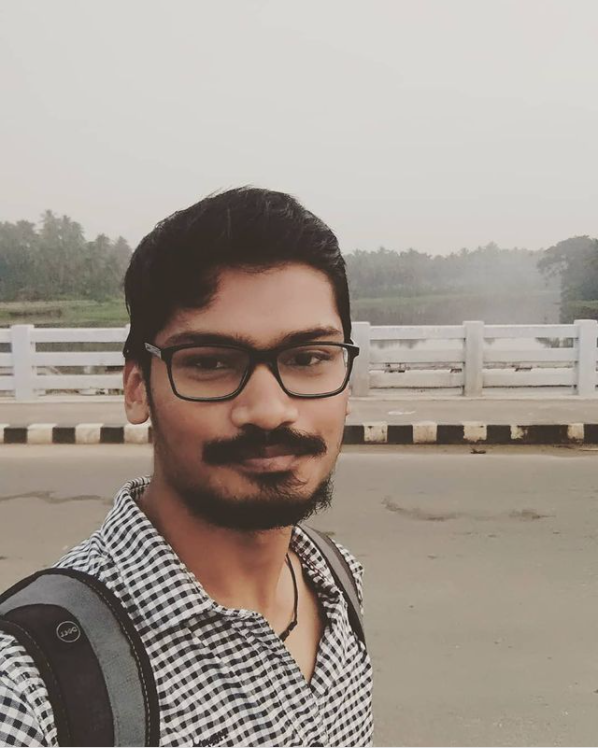
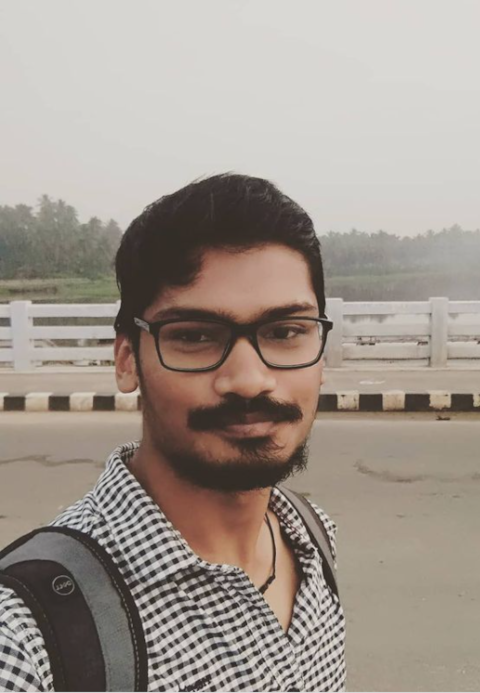
[+] Smaller photos [fix] ratio stretching

diff --git a/css/style.css b/css/style.css
@@ -1,1 +1,1 @@
-:root{scroll-behavior:smooth;--color-bg: #fff;--text-color-white: #fcfcfc;--dev-color: #f2f2f2;--text-color: #0f0f0f;--action-color: #fe7624;--action-color-2: #205eff;--action-color-3: #5d21d1}::-webkit-scrollbar{width:10px;height:10px}::-webkit-scrollbar-track{background:var(--color-bg)}::-webkit-scrollbar-thumb{background:var(--text-color)}body{margin:0;background-color:var(--color-bg);font-size:clamp(12px, 1vw, 18px)}a{color:inherit;text-decoration:none;font-family:"Montserrat",sans-serif;font-weight:600;font-size:1.4em}h1{padding:10px;font-family:"Montserrat",sans-serif;font-weight:800;font-size:4em}h2{padding:10px;font-family:"Montserrat",sans-serif;font-weight:700;font-size:3em}h2 .small{font-family:"Montserrat",sans-serif;font-weight:700;font-size:2.5em}h3{padding:10px;text-transform:uppercase;font-family:"Poppins",sans-serif;font-weight:600;font-size:1.6em}p{padding:10px;font-family:"Poppins",sans-serif;font-weight:500;font-size:1.4em}p.number_circle{padding:10px;font-family:"Righteous",fantasy;font-weight:400;font-size:5.8em}.header{top:0;width:100%;z-index:2;position:fixed;display:flex;justify-content:space-between;align-items:center;box-shadow:0 1px 10px 0 #000;backdrop-filter:blur(15px)}.header--container{margin:0 auto;width:clamp(280px, 80%, 1240px);display:flex;justify-content:space-between;align-items:center;gap:10px}a.logo{display:flex;align-items:center;font-family:"Righteous",sans-serif;font-weight:400;font-size:1.8em;padding:10px 0;gap:10px}a.logo img{width:clamp(48px, 4.5vw, 100px)}.nav{display:none}#hamburger{width:40px}.main{display:grid;margin:120px auto;width:clamp(320px, 80%, 1240px);gap:100px}.landing{flex-direction:column;display:flex;gap:20px}.landing .right{display:flex;align-items:center;justify-content:center;margin:auto 0}.landing .right img{width:clamp(240px, 40vw, 628px)}.about_us{text-align:center}.about_us .illustrations{display:flex;justify-content:space-around;width:100%}.about_us .illustrations img{width:clamp(100px, 20vw, 300px)}.perks{text-align:center}.perks .details{padding:0}.perks .card:nth-child(1) p:before{background:var(--action-color);transform:translate(-47%, -50%)}.perks .card:nth-child(1) p:after{color:var(--action-color-3);transform:translate(-53%, -50%)}.perks .card:nth-child(2) p:before{background:var(--text-color);transform:translate(-53%, -53%)}.perks .card:nth-child(2) p:after{color:var(--action-color);transform:translate(-47%, -47%)}.perks .card:nth-child(3) p:before{background:var(--action-color-2);transform:translate(-53%, -47%)}.perks .card:nth-child(3) p:after{color:var(--text-color);transform:translate(-47%, -53%)}.perks .card:nth-child(4) p:before{background:var(--text-color);transform:translate(-47%, -47%)}.perks .card:nth-child(4) p:after{color:var(--action-color);transform:translate(-53%, -53%)}.perks .card:nth-child(5) p:before{background:var(--action-color);transform:translate(-53%, -47%)}.perks .card:nth-child(5) p:after{color:var(--action-color-3);transform:translate(-50%, -53%)}.perks .card:nth-child(6) p:before{background:var(--action-color-2);transform:translate(-56%, -47%)}.perks .card:nth-child(6) p:after{color:var(--action-color-3);transform:translate(-53%, -53%)}.perks .card:nth-child(7) p:before{background:var(--action-color);transform:translate(-47%, -53%)}.perks .card:nth-child(7) p:after{color:var(--action-color-3);transform:translate(-53%, -47%)}.perks p.number_circle{padding:0;font-weight:800;color:var(--text-color-white);position:relative;width:100%}.perks p.number_circle:before,.perks p.number_circle:after{content:"";position:absolute;left:50%;top:50%;transform:translate(-50%, -50%);z-index:-1;border-radius:50%;width:90%;min-width:160px;max-width:240px;aspect-ratio:1/1}.perks p.number_circle:after{border:5px solid}.supply_chain h2{text-align:center}.supply_chain .step{width:60%}.contact-us{text-align:center}.contact-us .contact{display:flex;flex-direction:column;gap:20px}.contact-us .contact img{width:clamp(240px, 40vw, 484px)}.contact-us .contact .left{display:grid;place-items:center}.contact-us .contact .right{display:flex;justify-content:center;align-items:center}.contact-us form{padding:20px;display:flex;max-width:620px;flex-direction:column;grid-gap:20px}.contact-us form .form-identity{display:flex;grid-gap:26px}.contact-us form .form-identity input#name{width:33%}.contact-us form .form-identity input#mail{width:66%}.contact-us input,.contact-us textarea{font-size:1em;padding:10px 20px;border:3px solid var(--text-color);transition:box-shadow .5s;border-radius:12px;box-shadow:none}.contact-us input::placeholder,.contact-us textarea::placeholder{font-weight:bold;font-size:1em;opacity:.25}.contact-us input[type=submit],.contact-us textarea[type=submit]{min-width:25%;width:max-content;border:3px solid transparent;font-family:"Poppins",sans-serif;background-color:var(--action-color);box-shadow:5px 5px 0 0 var(--text-color);padding:10px 40px}.contact-us input:focus,.contact-us input:focus-within,.contact-us textarea:focus,.contact-us textarea:focus-within{outline:0;box-shadow:5px 5px 0 0 var(--action-color)}.contact-us textarea{height:150px;resize:none}footer{background-color:var(--dev-color)}footer .container{padding:40px 0;margin:0 auto;width:clamp(320px, 80%, 1240px)}footer .list-wrapper{display:grid;place-items:center;overflow-x:scroll;width:100%}footer .list{display:flex;max-width:content-box}footer .dev{display:grid;place-items:center;margin:0 20px}footer .dev img{width:224px;height:327px;overflow:hidden}footer .dev-name{width:calc(100% - 20px);text-align:center;padding:10px;margin:20px;font-size:1.11em}footer img,footer p{border-radius:32px;border:4px solid var(--text-color)}.perks-wrapper{display:flex;flex-direction:row;flex-flow:row wrap;justify-content:center}.perks-wrapper .card{padding:20px;display:flex;flex-direction:column;align-items:center;width:clamp(30%, 300px, 40%)}@media(min-width: 920px){#hamburger{display:none}.nav{display:flex}.nav .nav--link{padding:10px 20px}.landing{flex-direction:row}.contact-us .contact{flex-direction:row}.card{transition:all 1s ease-in-out}.supply_chain h2{text-align:left}}/*# sourceMappingURL=style.css.map */
+:root{scroll-behavior:smooth;--color-bg: #fff;--text-color-white: #fcfcfc;--dev-color: #f2f2f2;--text-color: #0f0f0f;--action-color: #fe7624;--action-color-2: #205eff;--action-color-3: #5d21d1}::-webkit-scrollbar{width:10px;height:10px}::-webkit-scrollbar-track{background:var(--color-bg)}::-webkit-scrollbar-thumb{background:var(--text-color)}body{margin:0;background-color:var(--color-bg);font-size:clamp(12px, 1vw, 18px)}a{color:inherit;text-decoration:none;font-family:"Montserrat",sans-serif;font-weight:600;font-size:1.4em}h1{padding:10px;font-family:"Montserrat",sans-serif;font-weight:800;font-size:4em}h2{padding:10px;font-family:"Montserrat",sans-serif;font-weight:700;font-size:3em}h2 .small{font-family:"Montserrat",sans-serif;font-weight:700;font-size:2.5em}h3{padding:10px;text-transform:uppercase;font-family:"Poppins",sans-serif;font-weight:600;font-size:1.6em}p{padding:10px;font-family:"Poppins",sans-serif;font-weight:500;font-size:1.4em}p.number_circle{padding:10px;font-family:"Righteous",fantasy;font-weight:400;font-size:5.8em}.header{top:0;width:100%;z-index:2;position:fixed;display:flex;justify-content:space-between;align-items:center;box-shadow:0 1px 10px 0 #000;backdrop-filter:blur(15px)}.header--container{margin:0 auto;width:clamp(280px, 80%, 1240px);display:flex;justify-content:space-between;align-items:center;gap:10px}a.logo{display:flex;align-items:center;font-family:"Righteous",sans-serif;font-weight:400;font-size:1.8em;padding:10px 0;gap:10px}a.logo img{width:clamp(48px, 4.5vw, 100px)}.nav{display:none}#hamburger{width:40px}.main{display:grid;margin:120px auto;width:clamp(320px, 80%, 1240px);gap:100px}.landing{flex-direction:column;display:flex;gap:20px}.landing .right{display:flex;align-items:center;justify-content:center;margin:auto 0}.landing .right img{width:clamp(240px, 40vw, 628px)}.about_us{text-align:center}.about_us .illustrations{display:flex;justify-content:space-around;width:100%}.about_us .illustrations img{width:clamp(100px, 20vw, 300px)}.perks{text-align:center}.perks .details{padding:0}.perks .card:nth-child(1) p:before{background:var(--action-color);transform:translate(-47%, -50%)}.perks .card:nth-child(1) p:after{color:var(--action-color-3);transform:translate(-53%, -50%)}.perks .card:nth-child(2) p:before{background:var(--text-color);transform:translate(-53%, -53%)}.perks .card:nth-child(2) p:after{color:var(--action-color);transform:translate(-47%, -47%)}.perks .card:nth-child(3) p:before{background:var(--action-color-2);transform:translate(-53%, -47%)}.perks .card:nth-child(3) p:after{color:var(--text-color);transform:translate(-47%, -53%)}.perks .card:nth-child(4) p:before{background:var(--text-color);transform:translate(-47%, -47%)}.perks .card:nth-child(4) p:after{color:var(--action-color);transform:translate(-53%, -53%)}.perks .card:nth-child(5) p:before{background:var(--action-color);transform:translate(-53%, -47%)}.perks .card:nth-child(5) p:after{color:var(--action-color-3);transform:translate(-50%, -53%)}.perks .card:nth-child(6) p:before{background:var(--action-color-2);transform:translate(-56%, -47%)}.perks .card:nth-child(6) p:after{color:var(--action-color-3);transform:translate(-53%, -53%)}.perks .card:nth-child(7) p:before{background:var(--action-color);transform:translate(-47%, -53%)}.perks .card:nth-child(7) p:after{color:var(--action-color-3);transform:translate(-53%, -47%)}.perks p.number_circle{padding:0;font-weight:800;color:var(--text-color-white);position:relative;width:100%}.perks p.number_circle:before,.perks p.number_circle:after{content:"";position:absolute;left:50%;top:50%;transform:translate(-50%, -50%);z-index:-1;border-radius:50%;width:90%;min-width:160px;max-width:240px;aspect-ratio:1/1}.perks p.number_circle:after{border:5px solid}.supply_chain h2{text-align:center}.supply_chain .step{width:60%}.contact-us{text-align:center}.contact-us .contact{display:flex;flex-direction:column;gap:20px}.contact-us .contact img{width:clamp(240px, 40vw, 484px)}.contact-us .contact .left{display:grid;place-items:center}.contact-us .contact .right{display:flex;justify-content:center;align-items:center}.contact-us form{padding:20px;display:flex;max-width:620px;flex-direction:column;grid-gap:20px}.contact-us form .form-identity{display:flex;grid-gap:26px}.contact-us form .form-identity input#name{width:33%}.contact-us form .form-identity input#mail{width:66%}.contact-us input,.contact-us textarea{font-size:1em;padding:10px 20px;border:3px solid var(--text-color);transition:box-shadow .5s;border-radius:12px;box-shadow:none}.contact-us input::placeholder,.contact-us textarea::placeholder{font-weight:bold;font-size:1em;opacity:.25}.contact-us input[type=submit],.contact-us textarea[type=submit]{min-width:25%;width:max-content;border:3px solid transparent;font-family:"Poppins",sans-serif;background-color:var(--action-color);box-shadow:5px 5px 0 0 var(--text-color);padding:10px 40px}.contact-us input:focus,.contact-us input:focus-within,.contact-us textarea:focus,.contact-us textarea:focus-within{outline:0;box-shadow:5px 5px 0 0 var(--action-color)}.contact-us textarea{height:150px;resize:none}footer{background-color:var(--dev-color)}footer .container{padding:40px 0;margin:0 auto;width:clamp(320px, 80%, 1240px)}footer .list-wrapper{display:grid;place-items:center;overflow-x:scroll;width:100%}footer .list{display:flex;max-width:content-box}footer .dev{display:grid;place-items:center;margin:0 20px}footer .dev img{width:224px;height:327px;object-fit:cover;overflow:hidden}footer .dev-name{width:calc(100% - 20px);text-align:center;padding:10px;margin:20px;font-size:1.11em}footer img,footer p{border-radius:32px;border:4px solid var(--text-color)}.perks-wrapper{display:flex;flex-direction:row;flex-flow:row wrap;justify-content:center}.perks-wrapper .card{padding:20px;display:flex;flex-direction:column;align-items:center;width:clamp(30%, 300px, 40%)}@media(min-width: 920px){#hamburger{display:none}.nav{display:flex}.nav .nav--link{padding:10px 20px}.landing{flex-direction:row}.contact-us .contact{flex-direction:row}.card{transition:all 1s ease-in-out}.supply_chain h2{text-align:left}}/*# sourceMappingURL=style.css.map */

diff --git a/scss/style.scss b/scss/style.scss
@@ -405,6 +405,7 @@ footer {
     img {
       width: 224px;
       height: 327px;
+      object-fit: cover;
       overflow: hidden;
     }
   }
